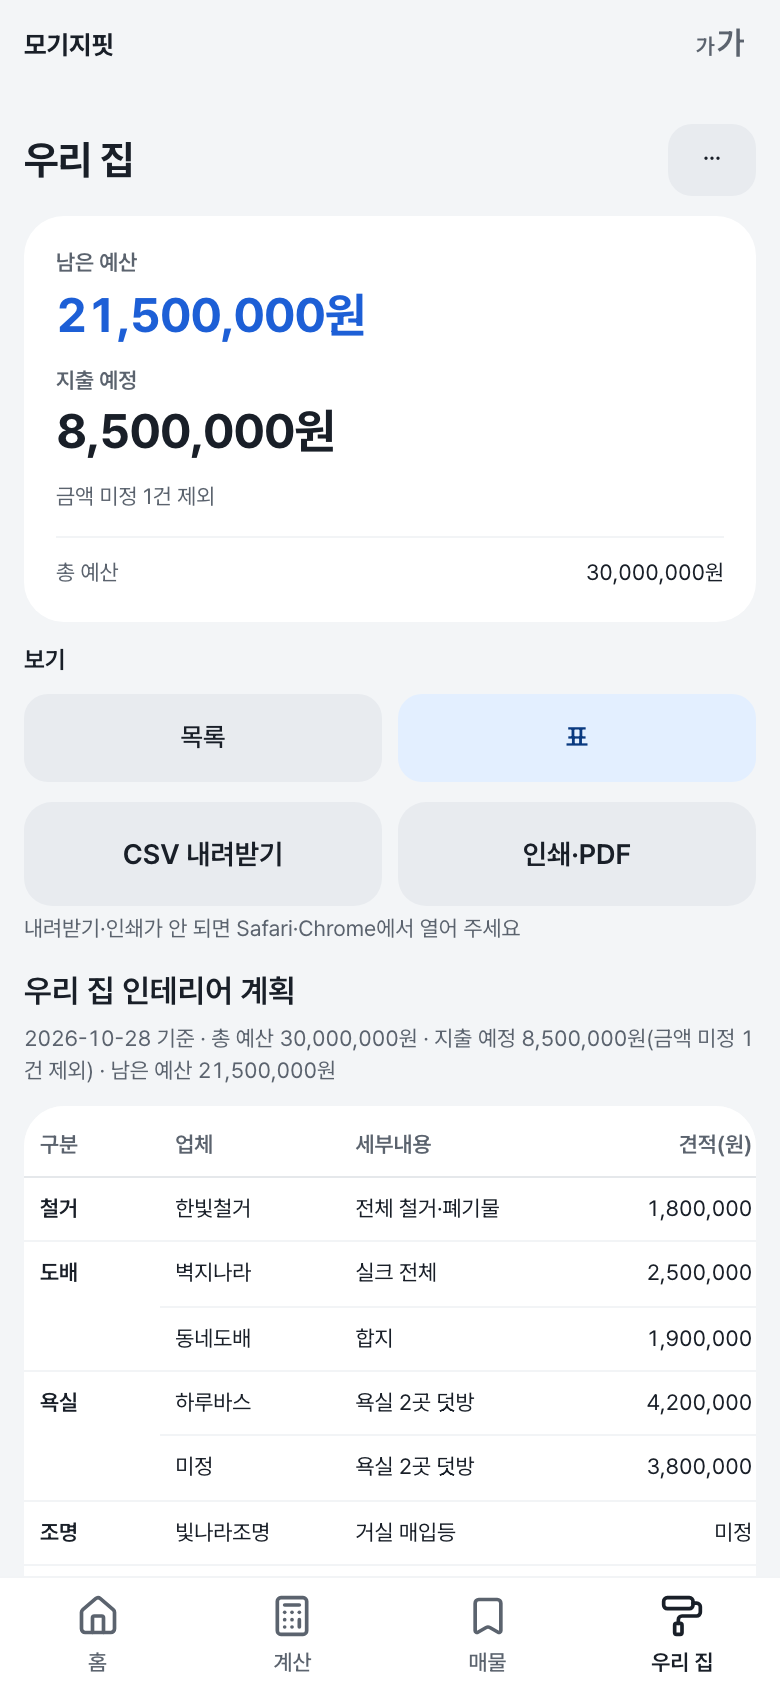
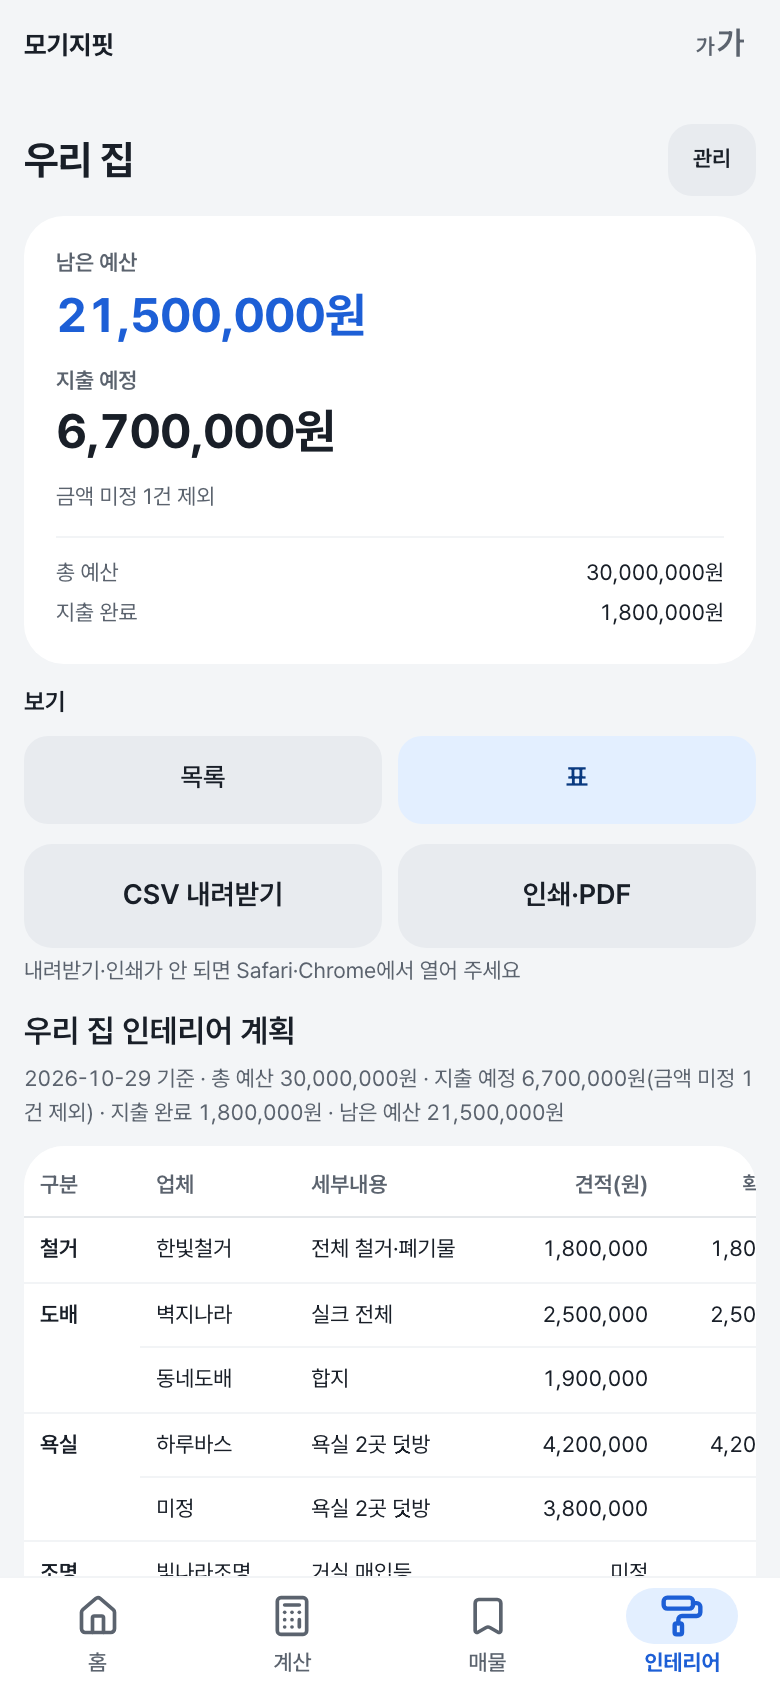
docs: README에 인테리어 구매 완료·일정을 더하고 화면 사진을 다시 찍음

diff --git a/README.md b/README.md
@@ -4,7 +4,7 @@
 
 - **대출 계산**: 매매가와 KB시세를 넣으면 주택담보대출 예상 한도와 필요한 자기자금(취득세·중개보수 포함)을 계산합니다.
 - **매물 모으기**: 계산한 매물을 저장해 놓고 내 예산과 비교하며 후보를 좁힙니다.
-- **인테리어**: 계약한 집의 공정별 업체 견적을 모아 확정한 금액으로 예산을 관리합니다.
+- **인테리어**: 계약한 집의 공정별 업체 견적을 모아 확정한 금액과 일정으로 예산을 관리합니다.
 
 운영 주소: <https://loan.conychoi.dev>
 
@@ -18,8 +18,8 @@
   </tr>
   <tr>
     <td align="center"><img src="docs/screenshots/04-trades.png" width="240" alt="실거래가 시트: 서울 강남구 래미안 검색 결과" /><br />실거래가</td>
-    <td align="center"><img src="docs/screenshots/05-interior.png" width="240" alt="인테리어: 남은 예산·지출 예정 요약과 공정별 업체 견적 줄, 확정 체크" /><br />인테리어</td>
-    <td align="center"><img src="docs/screenshots/06-interior-table.png" width="240" alt="인테리어 표 보기: 구분·업체·세부내용·견적 표와 CSV 내려받기·인쇄 버튼" /><br />인테리어 견적 표</td>
+    <td align="center"><img src="docs/screenshots/05-interior.png" width="240" alt="인테리어: 남은 예산·지출 예정·지출 완료 요약과 공정별 업체 견적 줄, 일정, 확정·완료 체크" /><br />인테리어</td>
+    <td align="center"><img src="docs/screenshots/06-interior-table.png" width="240" alt="인테리어 표 보기: 기준일 요약과 구분·업체·세부내용·견적 표, CSV 내려받기·인쇄 버튼" /><br />인테리어 견적 표</td>
   </tr>
 </table>
 
@@ -29,7 +29,7 @@
 
 ### 홈
 
-- 대출 계산(작성 중인 매매가), 매물 모으기(저장한 매물 수), 인테리어 계획(지출 예정·금액 미정 건수)를 한 화면에서 보고 바로 들어갑니다.
+- 대출 계산(작성 중인 매매가), 매물 모으기(저장한 매물 수), 인테리어 계획(지출 예정·지출 완료·금액 미정 건수)을 한 화면에서 보고 바로 들어갑니다.
 - 카카오 로그인과 함께 쓰기도 홈에서 합니다.
 
 ### 대출 계산
@@ -55,9 +55,11 @@
 
 - **공정별 견적 줄**: 구분(철거·도배·욕실 등), 세부내용, 업체, 견적(원), 비고를 한 줄로 적습니다. 같은 구분의 줄은 한 묶음으로 모여 업체 견적을 나란히 비교합니다.
 - **확정과 예산**: 고른 견적에 [확정]을 체크하면 확정한 금액만 지출 예정에 더해 총 예산과 남은 예산을 보여 줍니다.
+- **구매 완료**: 돈을 낸 줄에 [완료]를 체크하면 그 금액이 지출 예정에서 빠져 지출 완료로 모입니다. 남은 예산은 총 예산에서 지출 예정과 지출 완료를 뺀 금액입니다. 확정하지 않은 줄에 [완료]를 누르면 함께 확정됩니다.
+- **일정**: 줄마다 시작일과 끝나는 날을 넣으면 목록에서 세부내용 오른쪽에 `11/3~11/7`처럼 보입니다. 하루짜리는 시작일만 넣습니다.
 - **미정**: 업체나 금액을 아직 모르면 비워 둡니다. "업체 미정"·"미정"으로 표시하고, 금액 미정인 확정 줄은 지출 예정에서 빼고 건수만 알려 줍니다.
 - **순서 정하기**: 줄을 꾹 눌러 묶음 안에서 옮기고, 묶음 제목을 꾹 눌러 묶음을 통째로 옮깁니다. 표·CSV·인쇄도 같은 순서입니다.
-- **표 보기·내보내기**: 구분·업체·세부내용·견적·확정·비고 표로 보고, CSV로 내려받거나 인쇄·PDF로 저장합니다.
+- **표 보기·내보내기**: 구분·업체·세부내용·견적·확정·비고 표로 보고(완료한 줄이 있으면 완료 열도), CSV로 내려받거나 인쇄·PDF로 저장합니다.
 
 ### 공통
 

diff --git a/.cony/log.md b/.cony/log.md
@@ -763,3 +763,8 @@
 - AI(리드): 목록 줄 첫 줄(세부내용, 없으면 업체) 오른쪽에 흐린 14px "11/3" · "11/3~11/7" · "~11/7"(연도 없음). 여는 버튼이 "일정 11/3~11/7"을 설명으로 읽는다(끌기 안내 앞). 표·CSV·홈 카드에는 아직 없음.
 - 사용자 확인 필요(제품 기본값): ① 시작일·끝나는 날 두 칸(하루면 시작일만) ② 목록 표기 "월/일"(연도·요일 없음) ③ 표·CSV에 일정 열 없음
 - 화면 확인: 로컬 빌드 360·390px에서 목록 일정 표시, 시트 날짜 칸(넘침 없음), 저장 후 목록 반영. 실기기(iOS 날짜 고르기) 미확인
+
+# README·About·v1.0.0 릴리스
+
+- 요청: "repo의 About description 및 readme 업데이트할거없나 그리고 release도 할게있나" → "셋 다 진행"
+- AI(리드): README에 구매 완료·일정·홈 카드 완료 금액을 더하고 화면 사진 6장을 운영 주소에서 다시 찍음(하단 탭 "인테리어", 완료 체크·일정 보임). package.json 버전 0.0.0 → 1.0.0. About 설명을 대출·매물·인테리어 전체로, 토픽 추가. 첫 릴리스 v1.0.0(배포는 지금처럼 main 머지 = 운영 반영, 릴리스는 기록용)
